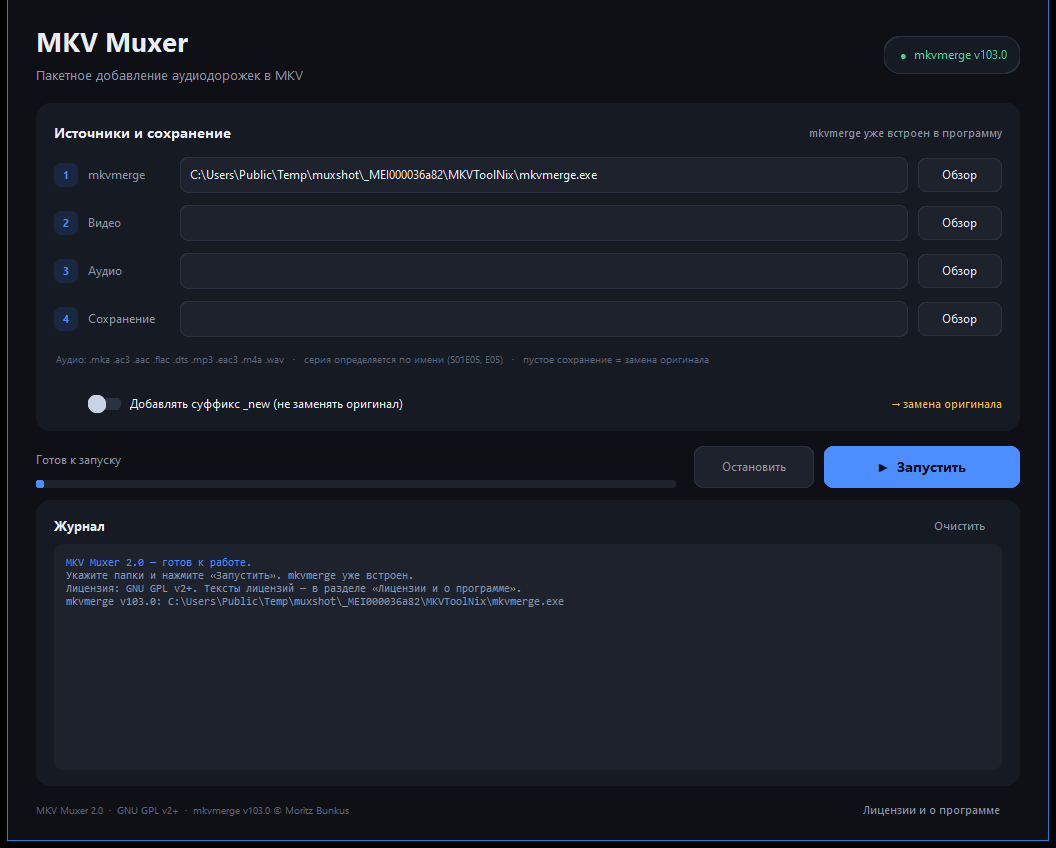
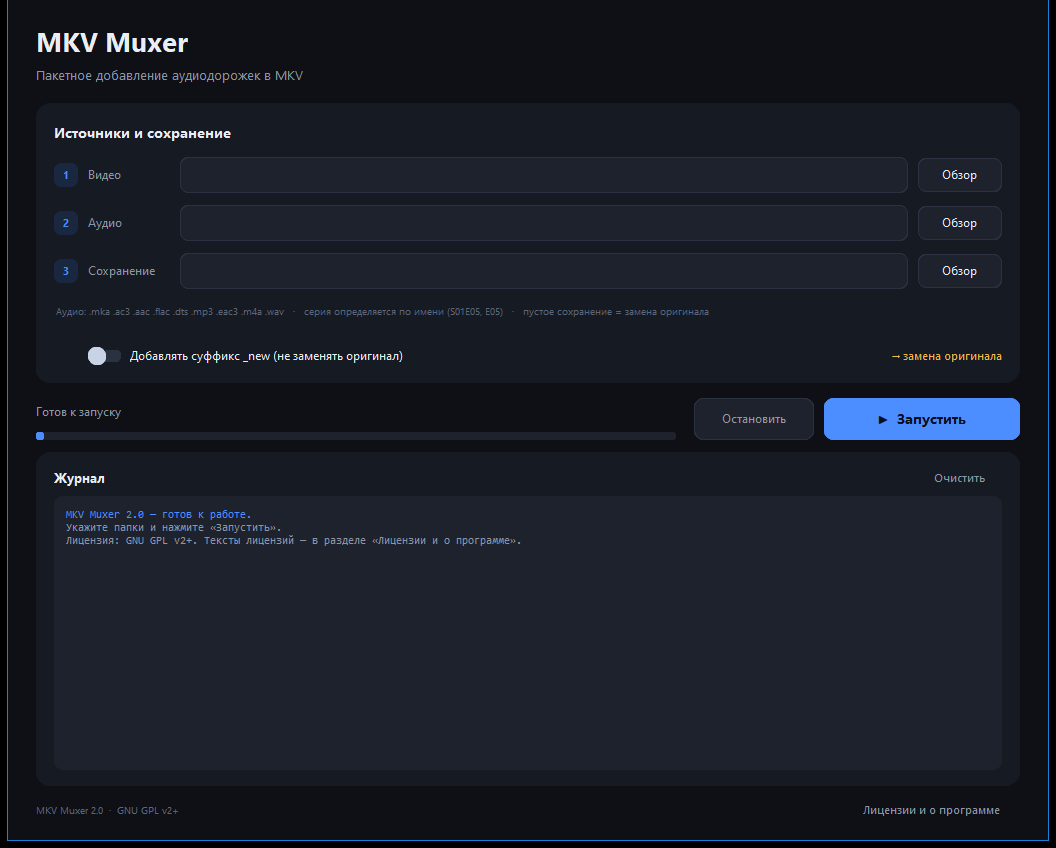
Remove mkvmerge from interface, refresh screenshot and README
Убраны все упоминания mkvmerge из пользовательского интерфейса: версия бейдж, поле пути, подсказка о встроенном mkvmerge, диалог автоопределения, приветствие, футер и карточка в «О программе». Backend (muxing logic) сохранён без изменений.

diff --git a/mkv_muxer.py b/mkv_muxer.py
@@ -7,9 +7,6 @@ Copyright (C) 2026 MKV Muxer contributors.
 Эта программа распространяется под GNU General Public License версии 2
 или (по вашему выбору) любой более поздней версии. Полный текст лицензии
 находится в файле LICENSES/GPL-2.0.txt.
-
-Программа вызывает mkvmerge из состава MKVToolNix (GPLv2+, © Moritz Bunkus).
-mkvmerge распространяется как отдельная программа и встроен в EXE без изменений.
 """
 
 import os
@@ -26,8 +23,6 @@ import customtkinter as ctk
 
 APP_NAME = "MKV Muxer"
 APP_VERSION = "2.0"
-MKVTOOLNIX_VERSION = "103.0"
-MKVTOOLNIX_SOURCE = "https://codeberg.org/mbunkus/mkvtoolnix"
 
 # ---------- Палитра ----------
 BG = "#0E1015"
@@ -57,7 +52,7 @@ def resource_path(*parts):
 
 
 def _no_window_flags():
-    """Не показывать консольное окно при вызове mkvmerge из GUI-сборки."""
+    """Не показывать консольное окно при вызове внешних утилит из GUI-сборки."""
     return subprocess.CREATE_NO_WINDOW if os.name == "nt" else 0
 
 
@@ -73,13 +68,11 @@ class MkvMuxerApp(ctk.CTk):
             pass
 
         # --- Переменные состояния ---
-        self.mkvmerge_path = tk.StringVar()
         self.video_dir = tk.StringVar()
         self.audio_dir = tk.StringVar()
         self.output_dir = tk.StringVar()
         self.use_new_suffix = tk.BooleanVar(value=False)
         self.mode_hint = tk.StringVar()
-        self.version_text = tk.StringVar(value="поиск mkvmerge…")
 
         self._events = queue.Queue()
         self._worker = None
@@ -87,7 +80,6 @@ class MkvMuxerApp(ctk.CTk):
         self._stage = None
         self._about = None
 
-        self.auto_detect_mkvmerge()
         self._build_ui()
 
         self.output_dir.trace_add("write", lambda *_: self._update_mode_hint())
@@ -97,7 +89,6 @@ class MkvMuxerApp(ctk.CTk):
         self.protocol("WM_DELETE_WINDOW", self._on_close)
         self.after(80, self._poll_events)
         self.after(120, self._welcome)
-        self.after(320, self._probe_mkvmerge)
 
     # ==================================================================
     #  Интерфейс
@@ -129,20 +120,6 @@ class MkvMuxerApp(ctk.CTk):
             font=ctk.CTkFont("Segoe UI", 13), text_color=MUTED
         ).grid(row=1, column=0, sticky="w", pady=(2, 0))
 
-        badge = ctk.CTkFrame(header, fg_color=CARD, corner_radius=17,
-                             border_width=1, border_color=BORDER)
-        badge.grid(row=0, column=1, sticky="e", pady=6)
-        self.badge_dot = ctk.CTkLabel(
-            badge, text="●", width=16, text_color=MUTED,
-            font=ctk.CTkFont("Segoe UI", 11)
-        )
-        self.badge_dot.grid(row=0, column=0, padx=(12, 2), pady=5)
-        self.version_label = ctk.CTkLabel(
-            badge, textvariable=self.version_text,
-            font=ctk.CTkFont("Segoe UI", 12), text_color=MUTED
-        )
-        self.version_label.grid(row=0, column=1, padx=(0, 13), pady=5)
-
     def _build_paths_card(self):
         card = ctk.CTkFrame(self, fg_color=CARD, corner_radius=16)
         card.grid(row=1, column=0, sticky="ew", padx=28)
@@ -155,35 +132,25 @@ class MkvMuxerApp(ctk.CTk):
             head, text="Источники и сохранение",
             font=ctk.CTkFont("Segoe UI", 14, "bold"), text_color=TEXT
         ).grid(row=0, column=0, sticky="w")
-        ctk.CTkLabel(
-            head, text="mkvmerge уже встроен в программу",
-            font=ctk.CTkFont("Segoe UI", 11), text_color=MUTED
-        ).grid(row=0, column=1, sticky="e")
 
-        self.entry_mkvmerge = self._field_row(
-            card, 1, "1", "mkvmerge",
-            self.mkvmerge_path, r"C:\Program Files\MKVToolNix\mkvmerge.exe",
-            self.select_mkvmerge,
-        )
         self._field_row(
-            card, 2, "2", "Видео",
+            card, 1, "1", "Видео",
             self.video_dir, "Папка с .mkv файлами",
             lambda: self.select_dir(self.video_dir),
         )
         self._field_row(
-            card, 3, "3", "Аудио",
+            card, 2, "2", "Аудио",
             self.audio_dir, "Папка с .mka, .ac3, .flac …",
             lambda: self.select_dir(self.audio_dir),
         )
         self._field_row(
-            card, 4, "4", "Сохранение",
+            card, 3, "3", "Сохранение",
             self.output_dir, "Пусто — заменить оригинал",
             lambda: self.select_dir(self.output_dir),
         )
-        self.entry_mkvmerge.bind("<FocusOut>", lambda _e: self._probe_mkvmerge())
 
         sep = ctk.CTkFrame(card, height=1, fg_color=BORDER, corner_radius=0)
-        sep.grid(row=6, column=0, columnspan=4, sticky="ew", padx=18, pady=(10, 2))
+        sep.grid(row=5, column=0, columnspan=4, sticky="ew", padx=18, pady=(10, 2))
 
         ctk.CTkLabel(
             card,
@@ -192,7 +159,7 @@ class MkvMuxerApp(ctk.CTk):
                  "пустое сохранение = замена оригинала",
             font=ctk.CTkFont("Segoe UI", 10), text_color="#5D6678",
             anchor="w",
-        ).grid(row=5, column=0, columnspan=4, sticky="ew", padx=20, pady=(2, 0))
+        ).grid(row=4, column=0, columnspan=4, sticky="ew", padx=20, pady=(2, 0))
 
         self.suffix_switch = ctk.CTkSwitch(
             card,
@@ -206,13 +173,13 @@ class MkvMuxerApp(ctk.CTk):
             button_hover_color=TEXT,
             command=self._update_mode_hint,
         )
-        self.suffix_switch.grid(row=7, column=1, columnspan=2, sticky="w", pady=(4, 14))
+        self.suffix_switch.grid(row=6, column=1, columnspan=2, sticky="w", pady=(4, 14))
 
         self.mode_label = ctk.CTkLabel(
             card, textvariable=self.mode_hint,
             font=ctk.CTkFont("Segoe UI", 11), text_color=MUTED
         )
-        self.mode_label.grid(row=7, column=2, columnspan=2, sticky="e", padx=(0, 18), pady=(4, 14))
+        self.mode_label.grid(row=6, column=2, columnspan=2, sticky="e", padx=(0, 18), pady=(4, 14))
     def _field_row(self, parent, row, number, label, var, placeholder, command):
         badge = ctk.CTkLabel(
             parent, text=number, width=24, height=24, corner_radius=8,
@@ -316,8 +283,7 @@ class MkvMuxerApp(ctk.CTk):
 
         ctk.CTkLabel(
             footer,
-            text=f"{APP_NAME} {APP_VERSION}  ·  GNU GPL v2+  ·  mkvmerge "
-                 f"v{MKVTOOLNIX_VERSION} © Moritz Bunkus",
+            text=f"{APP_NAME} {APP_VERSION}  ·  GNU GPL v2+",
             font=ctk.CTkFont("Segoe UI", 10), text_color="#5D6678",
         ).grid(row=0, column=0, sticky="w")
 
@@ -329,60 +295,8 @@ class MkvMuxerApp(ctk.CTk):
         ).grid(row=0, column=1, sticky="e")
 
     # ==================================================================
-    #  Автопоиск и версия mkvmerge
-    # ==================================================================
-    def auto_detect_mkvmerge(self):
-        possible_paths = [
-            # 1) mkvmerge, встроенный в EXE (--add-binary ...;MKVToolNix)
-            resource_path("MKVToolNix", "mkvmerge.exe"),
-            # 2) обычная установка MKVToolNix
-            r"C:\Program Files\MKVToolNix\mkvmerge.exe",
-            r"C:\Program Files (x86)\MKVToolNix\mkvmerge.exe",
-            os.path.join(os.getcwd(), "MKVToolNix", "mkvmerge.exe"),
-        ]
-        for p in possible_paths:
-            if os.path.isfile(p):
-                self.mkvmerge_path.set(p)
-                return
-
-    def _probe_mkvmerge(self):
-        path = self.mkvmerge_path.get().strip()
-        if not path or not os.path.isfile(path):
-            self.version_text.set("mkvmerge не найден")
-            self.version_label.configure(text_color=RED)
-            self.badge_dot.configure(text_color=RED)
-            return
-        try:
-            result = subprocess.run(
-                [path, "--version"], capture_output=True, text=True,
-                encoding="utf-8", errors="replace",
-                creationflags=_no_window_flags(), timeout=15,
-            )
-            first = (result.stdout or "").splitlines()[0] if result.stdout else ""
-            match = re.search(r"mkvmerge v([\d.]+)", first)
-            version = match.group(1) if match else "?"
-            self.version_text.set(f"mkvmerge v{version}")
-            self.version_label.configure(text_color=GREEN)
-            self.badge_dot.configure(text_color=GREEN)
-            self._append_log(f"mkvmerge v{version}: {path}", "muted")
-        except Exception as exc:
-            self.version_text.set("mkvmerge недоступен")
-            self.version_label.configure(text_color=RED)
-            self.badge_dot.configure(text_color=RED)
-            self._append_log(f"Не удалось запустить mkvmerge: {exc}", "err")
-
-    # ==================================================================
     #  Диалоги выбора
     # ==================================================================
-    def select_mkvmerge(self):
-        path = filedialog.askopenfilename(
-            title="Выберите mkvmerge.exe",
-            filetypes=[("Executable", "*.exe"), ("Все файлы", "*.*")],
-        )
-        if path:
-            self.mkvmerge_path.set(path)
-            self._probe_mkvmerge()
-
     def select_dir(self, var):
         path = filedialog.askdirectory(title="Выберите папку")
         if path:
@@ -423,17 +337,13 @@ class MkvMuxerApp(ctk.CTk):
     #  Запуск и остановка
     # ==================================================================
     def start_processing(self):
-        mkvmerge = self.mkvmerge_path.get().strip()
+        mkvmerge = resource_path("MKVToolNix", "mkvmerge.exe")
         v_dir = self.video_dir.get().strip()
         a_dir = self.audio_dir.get().strip()
         out_dir = self.output_dir.get().strip()
         use_suffix = self.use_new_suffix.get()
 
         errors = []
-        if not mkvmerge:
-            errors.append("не указан путь к mkvmerge.exe")
-        elif not os.path.isfile(mkvmerge):
-            errors.append(f"mkvmerge.exe не найден:\n{mkvmerge}")
         if not v_dir or not os.path.isdir(v_dir):
             errors.append("папка с видео не найдена")
         if not a_dir or not os.path.isdir(a_dir):
@@ -784,26 +694,6 @@ class MkvMuxerApp(ctk.CTk):
             font=ctk.CTkFont("Segoe UI", 12), text_color=MUTED
         ).pack(anchor="w", padx=26, pady=(2, 14))
 
-        mkv_card = ctk.CTkFrame(win, fg_color=CARD, corner_radius=14)
-        mkv_card.pack(fill="x", padx=26, pady=(0, 12))
-        ctk.CTkLabel(
-            mkv_card, text="Встроенный mkvmerge",
-            font=ctk.CTkFont("Segoe UI", 13, "bold"), text_color=TEXT
-        ).pack(anchor="w", padx=16, pady=(14, 2))
-        ctk.CTkLabel(
-            mkv_card,
-            text=f"MKVToolNix / mkvmerge v{MKVTOOLNIX_VERSION} · © Moritz Bunkus\n"
-                 "GNU GPL v2+ · двоичный файл включён без изменений",
-            font=ctk.CTkFont("Segoe UI", 11), text_color=MUTED, justify="left",
-        ).pack(anchor="w", padx=16)
-        ctk.CTkButton(
-            mkv_card, text="Исходный код MKVToolNix ↗", width=210, height=30,
-            corner_radius=8, fg_color=FIELD, hover_color=BORDER,
-            border_width=1, border_color=BORDER, text_color=ACCENT,
-            font=ctk.CTkFont("Segoe UI", 11),
-            command=lambda: webbrowser.open(MKVTOOLNIX_SOURCE),
-        ).pack(anchor="w", padx=16, pady=(10, 14))
-
         lic_card = ctk.CTkFrame(win, fg_color=CARD, corner_radius=14)
         lic_card.pack(fill="x", padx=26, pady=(0, 12))
         ctk.CTkLabel(
@@ -870,7 +760,7 @@ class MkvMuxerApp(ctk.CTk):
     def _welcome(self):
         self._append_log(f"{APP_NAME} {APP_VERSION} — готов к работе.", "accent")
         self._append_log(
-            "Укажите папки и нажмите «Запустить». mkvmerge уже встроен.",
+            "Укажите папки и нажмите «Запустить».",
             "muted",
         )
         self._append_log(

diff --git a/README.md b/README.md
@@ -2,10 +2,9 @@
 
 ![Windows 10/11 x64](https://img.shields.io/badge/platform-Windows%2010%2F11%20x64-0078D6?logo=windows&logoColor=white)
 ![Python 3.15](https://img.shields.io/badge/python-3.15-3776AB?logo=python&logoColor=white)
-![mkvmerge 103.0](https://img.shields.io/badge/mkvmerge-103.0-orange)
 ![GPL-2.0-or-later](https://img.shields.io/badge/license-GPL--2.0--or--later-green)
 
-**MKV Muxer** — настольная программа для Windows, которая пакетно добавляет аудиодорожки в MKV-файлы. Укажите папку с сериями и папку с аудио — программа сопоставит файлы по номеру серии и соберёт новые MKV с помощью `mkvmerge`. `mkvmerge` уже встроен в сборку, поэтому устанавливать MKVToolNix не нужно.
+**MKV Muxer** — настольная программа для Windows, которая пакетно добавляет аудиодорожки в MKV-файлы. Укажите папку с сериями и папку с аудио — программа сопоставит файлы по номеру серии и соберёт новые MKV.
 
 ![Интерфейс MKV Muxer](docs/screenshot.png)
 
@@ -13,7 +12,6 @@
 
 - Пакетная обработка всех `.mkv` в выбранной папке.
 - Автоматическое сопоставление видео и аудио по номеру серии.
-- Встроенный `mkvmerge` 103.0 — внешний MKVToolNix не требуется.
 - Три режима сохранения: в отдельную папку, рядом с суффиксом `_new`, замена оригинала.
 - Прогресс, статус текущей серии и цветной журнал.
 - Корректная остановка после текущего файла — без битых MKV.
@@ -25,11 +23,10 @@
 | | |
 |---|---|
 | ОС | Windows 10 / 11, 64-бит |
-| MKVToolNix | не нужен — встроен `mkvmerge` 103.0 |
 | Свободное место | около 100 МБ на время запуска portable-версии |
 | Права | обычные права пользователя |
 
-При первом запуске portable-версия распаковывает встроенный `mkvmerge` во временную папку. Это занимает 1–3 секунды; установленная версия (onedir) запускается сразу.
+При первом запуске portable-версия распаковывает встроенные ресурсы во временную папку. Это занимает 1–3 секунды; установленная версия (onedir) запускается сразу.
 
 ## Быстрый старт
 
@@ -40,8 +37,6 @@
    - **Аудио** — папка с аудиофайлами (без подпапок);
    - **Сохранение** — папка для результата, можно оставить пустой.
 4. Нажмите **Запустить**.
-
-Поле `mkvmerge` заполняется автоматически и указывает на встроенную копию. Менять его не нужно.
 
 > [!NOTE]
 > Программа просматривает только выбранную папку, без подпапок. Для аудио выбирайте папку, где файлы лежат непосредственно, например `RUS Sound [StudioBand]`.
@@ -54,7 +49,7 @@
 | пуста | включён | рядом с оригиналом создаётся `..._new.mkv` |
 | пуста | выключен | оригинал заменяется (программа попросит подтверждение) |
 
-В режиме замены сначала создаётся временный файл, и только после успешной работы `mkvmerge` он подменяет оригинал. Если папка сохранения совпадает с папкой видео, включите `_new` или выберите другую папку.
+В режиме замены сначала создаётся временный файл, и только после успешной обработки он подменяет оригинал. Если папка сохранения совпадает с папкой видео, включите `_new` или выберите другую папку.
 
 ## Определение серии
 
@@ -77,11 +72,11 @@
 
 `.mka`, `.ac3`, `.aac`, `.flac`, `.dts`, `.mp3`, `.eac3`, `.m4a`, `.wav`
 
-Новая дорожка добавляется к существующим дорожкам MKV. Видео и субтитры не перекодируются — `mkvmerge` только пересобирает контейнер.
+Новая дорожка добавляется к существующим дорожкам MKV. Видео и субтитры не перекодируются — пересобирается контейнер.
 
 ## Сборка из исходников
 
-Нужны Python 3.10+ (проверено на 3.15.2), PyInstaller, CustomTkinter, Pillow и установленный MKVToolNix — из него берётся `mkvmerge.exe`. Для установщика нужен Inno Setup 6.3+ (проверено на 7.1.1).
+Нужны Python 3.10+ (проверено на 3.15.2), PyInstaller, CustomTkinter, Pillow и Inno Setup 6.3+ (проверено на 7.1.1).
 
 ```powershell
 python -m pip install pyinstaller customtkinter pillow
@@ -102,7 +97,6 @@ python -m pip install pyinstaller customtkinter pillow
 
 | Параметр | Назначение |
 |---|---|
-| `-Mkvmerge "C:\...\mkvmerge.exe"` | собрать с другой версией mkvmerge |
 | `-Python "C:\...\python.exe"` | явный путь к Python |
 | `-Iscc "C:\...\ISCC.exe"` | явный путь к Inno Setup |
 | `-SkipInstaller` | только portable EXE и ZIP |
@@ -136,14 +130,6 @@ python -m PyInstaller --noconfirm MKV_Muxer_onedir.spec
 └─ SIGNING.md                как подписать EXE и установщик
 ```
 
-## Обновление mkvmerge
-
-```powershell
-.\build_release.ps1 -Mkvmerge "C:\Program Files\MKVToolNix\mkvmerge.exe"
-```
-
-Путь также можно задать переменной среды `MKVMERGE` или изменить значение по умолчанию в spec-файлах. После обновления не забудьте поправить `MKVTOOLNIX_VERSION` в `mkv_muxer.py`, чтобы версия в интерфейсе совпадала с встроенной.
-
 ## Подпись и SmartScreen
 
 Сборки не подписаны. Windows SmartScreen может показать «Неизвестный издатель», а антивирус — ложное срабатывание на PyInstaller-сборку. Подробная инструкция по сертификату, `signtool` и настройке Inno Setup находится в [`SIGNING.md`](SIGNING.md).
@@ -158,13 +144,11 @@ Get-FileHash .\release\MKV_Muxer_2.0_setup.exe -Algorithm SHA256
 
 Код программы распространяется под **GNU General Public License v2.0 или новее** (`GPL-2.0-or-later`). Полный текст — в файлах [`LICENSE`](LICENSE) и [`LICENSES/GPL-2.0.txt`](LICENSES/GPL-2.0.txt).
 
-`mkvmerge` из состава MKVToolNix © Moritz Bunkus распространяется под GPLv2+ и включён в сборки без изменений. Исходный код MKVToolNix: <https://codeberg.org/mbunkus/mkvtoolnix>.
-
 Сторонние компоненты и их лицензии перечислены в [`LICENSES/THIRD_PARTY_NOTICES.txt`](LICENSES/THIRD_PARTY_NOTICES.txt). При распространении сборок вместе с ними необходимо передавать исходный код: он находится в этом репозитории и входит в portable-архив и установщик.
 
 ## Благодарности
 
-- [MKVToolNix](https://mkvtoolnix.download/) — `mkvmerge` и формат MKV.
+- [MKVToolNix](https://mkvtoolnix.download/) — формат MKV и утилиты для работы с ним.
 - [CustomTkinter](https://github.com/TomSchimansky/CustomTkinter) — интерфейс.
 - [PyInstaller](https://pyinstaller.org/) — сборка Windows-исполняемых файлов.
 - Python, Tcl/Tk и Inno Setup.
